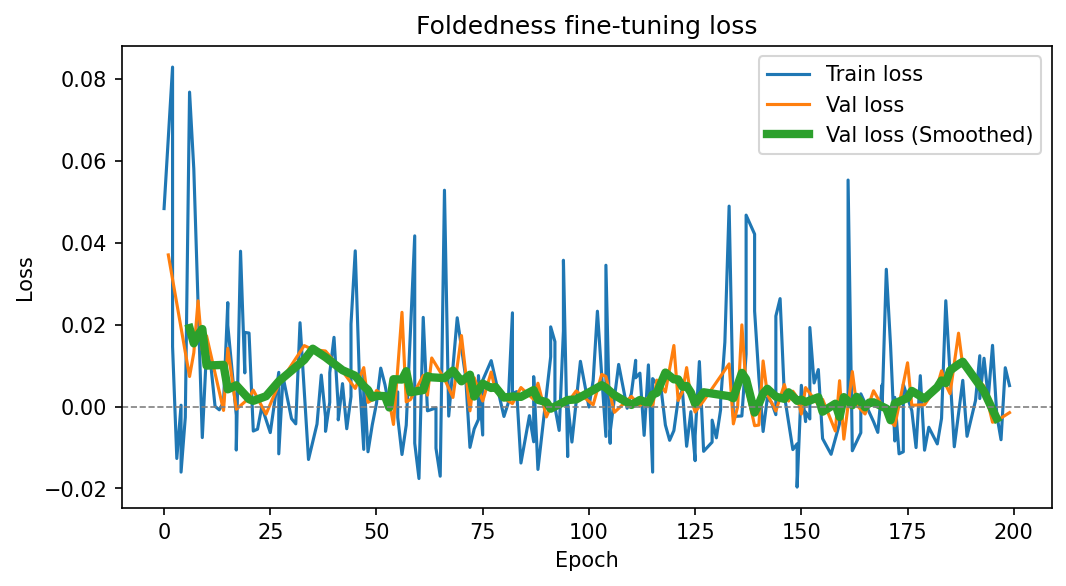
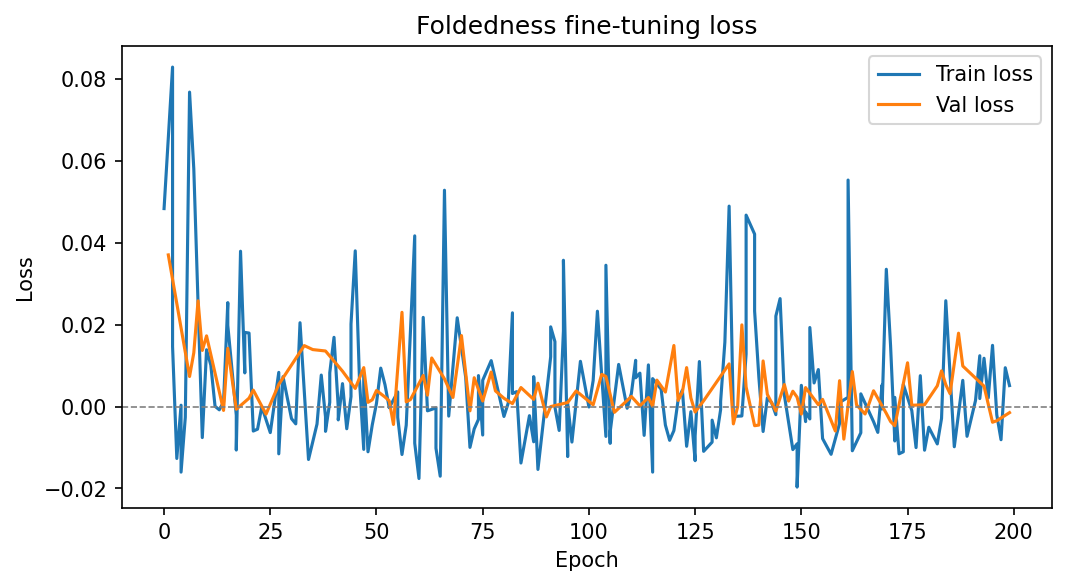
Visualized latest results from v6 finetuning again

Changed region(s): [[0.1548, 0.5529, 0.9597, 0.7372], [0.712, 0.0922, 0.9906, 0.2765]]

diff --git a/my_scripts/visualize_val_train_loss.py b/my_scripts/visualize_val_train_loss.py
@@ -15,11 +15,11 @@ val = history[["_step", "epoch", "val/loss"]].dropna()
 
 # We'll add a smoothed loss for val loss to make it easier to interpret
 less_epochs = np.array(val["epoch"][1:-1])
-smoothed_val_loss = (np.array(val["val/loss"][2:])+np.array(val["val/loss"][1:-1])+np.array(val["val/loss"][:-2]))/3.
+#smoothed_val_loss = (np.array(val["val/loss"][2:])+np.array(val["val/loss"][1:-1])+np.array(val["val/loss"][:-2]))/3.
 
 ax.plot(train["epoch"], train["train/loss"], label="Train loss")
 ax.plot(val["epoch"], val["val/loss"], label="Val loss")
-ax.plot(less_epochs, smoothed_val_loss, label="Val loss (Smoothed)", linewidth=4)
+#ax.plot(less_epochs, smoothed_val_loss, label="Val loss (Smoothed)", linewidth=4)
 
 ax.set_xlabel("Epoch")
 ax.set_ylabel("Loss")
